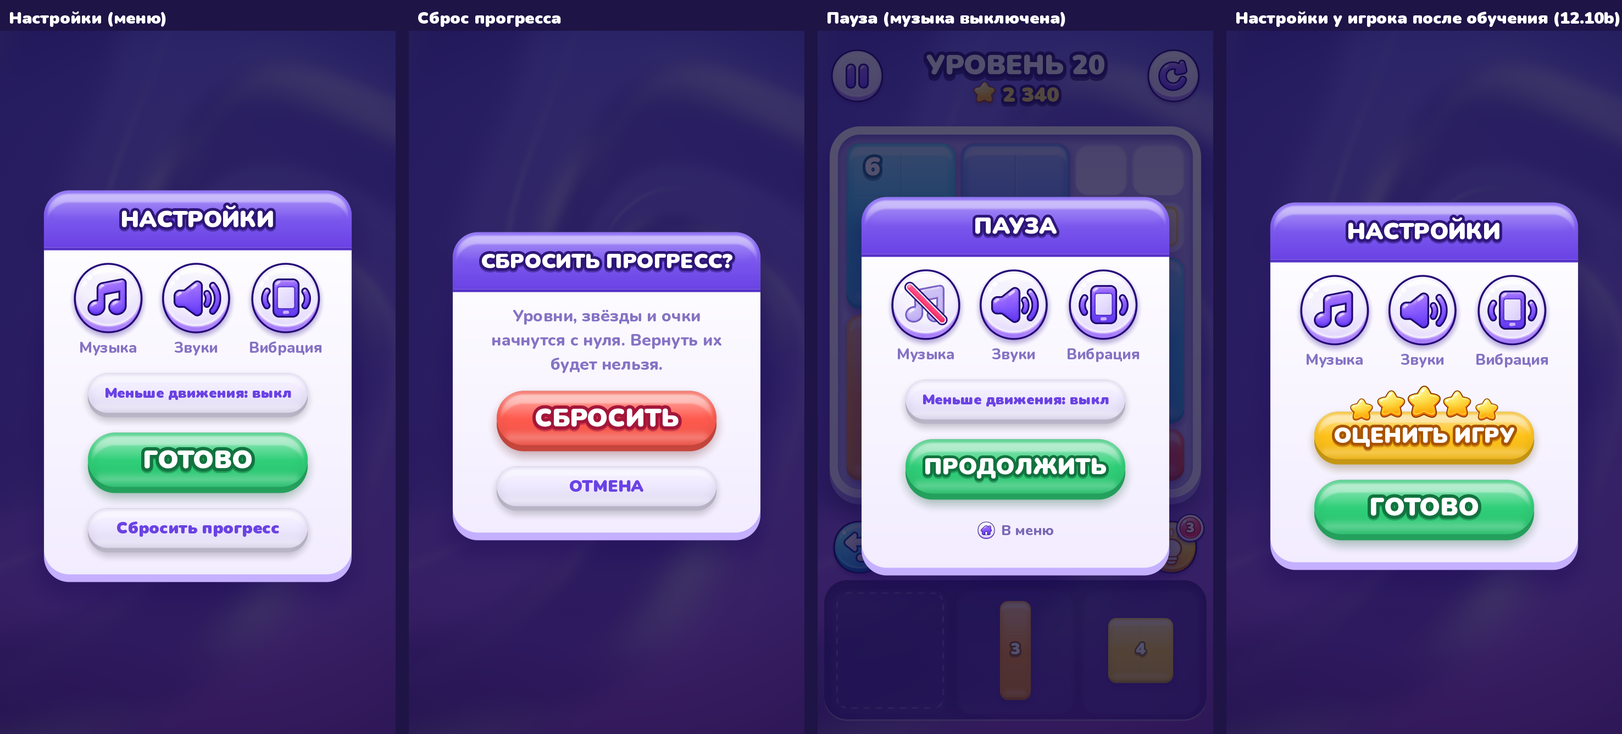
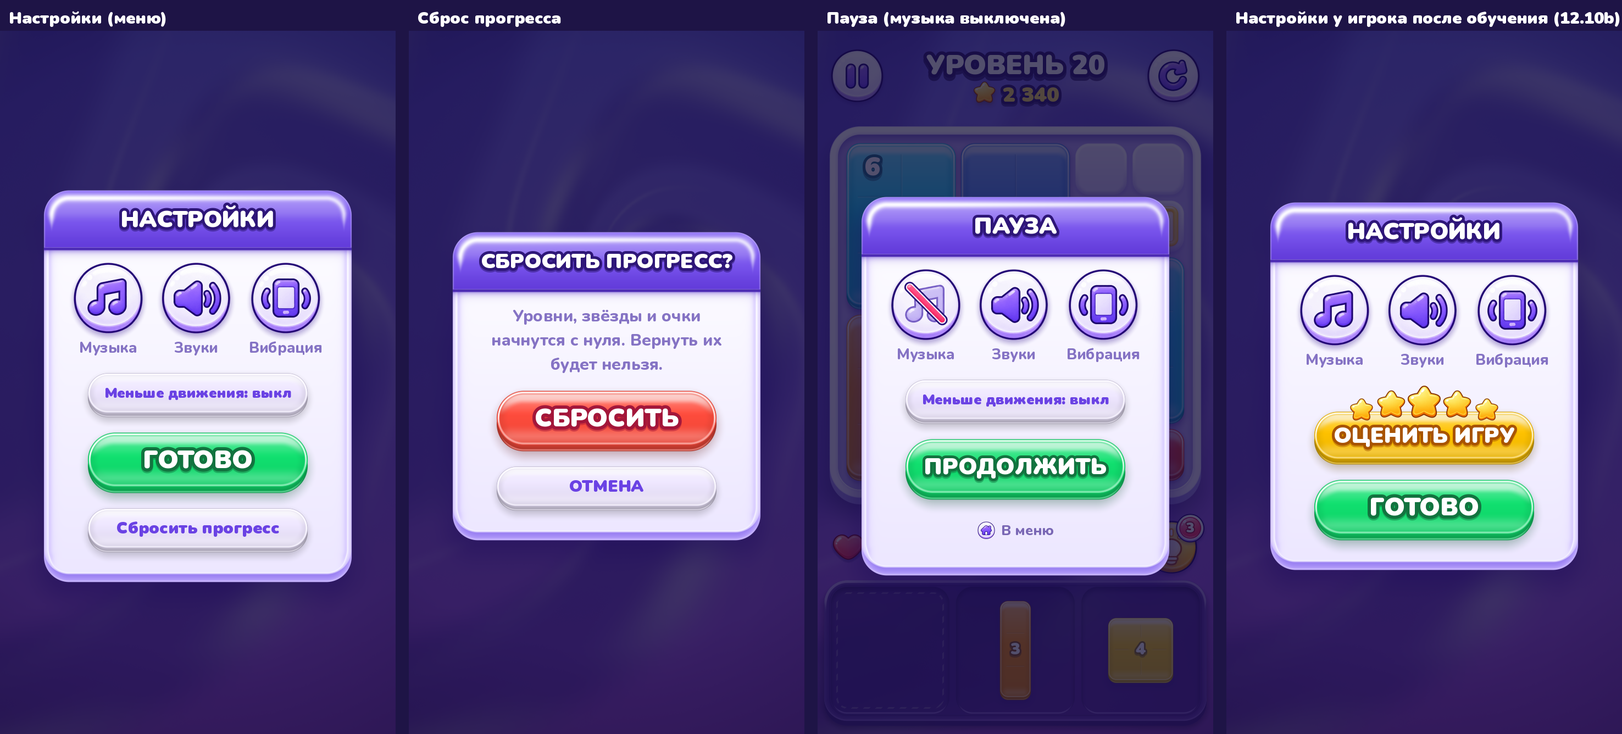
shaders

diff --git a/tools/shader_preview.py b/tools/shader_preview.py
@@ -536,7 +536,7 @@ SHADE_LIFTED = gd_value(gd_const("scripts/palette.gd", "SHADE_LIFTED"))
 B = {k: gd_value(gd_const("scenes/game/block.gd", k)) for k in
      ("CELL", "DEPTH", "MARGIN_REST", "MARGIN_LIFTED", "SHADOW_REST", "SHADOW_LIFTED", "BLUR_REST",
       "BLUR_LIFTED", "LIFT_SCALE", "DIGIT_OUTLINE")}
-BD = {k: gd_value(gd_const("scenes/game/board.gd", k)) for k in ("PAD", "RIM", "FRAME_DEPTH", "FRAME_MARGIN")}
+BD = {k: gd_value(gd_const("scenes/game/board.gd", k)) for k in ("PAD", "RIM", "FRAME_DEPTH", "FRAME_MARGIN", "GHOST_GLOW")}
 CL = {k: gd_value(gd_const("scenes/game/cell.gd", k)) for k in ("MAGNET_SCALE", "MAGNET_LIFT", "DIGIT_OUTLINE")}
 DIM_A = gd_value(gd_const("scenes/game/cell.gd", "DIM_COLOR"))[3]
 CELL = B["CELL"]
@@ -813,10 +813,12 @@ def render(bad=False):
                    darkened(color_for(area), 0.42), CL["DIGIT_OUTLINE"] * s * k,
                    darkened(color_for(area), 0.5)[:3] + (0.35,), (0, 2 * s * k), alpha)
 
-    # Board/Ghost — место несомого блока.
+    # Board/Ghost — место несомого блока; узел шире места на поля под свечение (Board.GHOST_GLOW, 20.8).
     gcol = GHOST_BAD if bad else color_for(drag_area)
-    draw_rect(cv, "ghost", ox + x * CELL_PX, oy + y * CELL_PX, bw * CELL, bh * CELL, s, gcol,
-              {"rect_size": (bw * CELL, bh * CELL), "px": px, "frame_alpha": 0.6 if bad else 1.0})
+    gm = BD["GHOST_GLOW"] * px
+    draw_rect(cv, "ghost", ox + x * CELL_PX - gm * s, oy + y * CELL_PX - gm * s, bw * CELL + 2 * gm,
+              bh * CELL + 2 * gm, s, gcol,
+              {"rect_size": (bw * CELL, bh * CELL), "margin": gm, "px": px, "bad": 1.0 if bad else 0.0})
 
     # Блоки на поле — по рядам (Board._sort_block).
     for i in sorted(PLACED, key=lambda j: (rects[j][1], rects[j][0])):

diff --git a/docs/log/journal_12_1127.md b/docs/log/journal_12_1127.md
@@ -1,0 +1,65 @@
+# Лог: 27.11 (этап 20.1e; 20.8 — ночь)
+
+Вынесено из корневого PROGRESS.md 27.11.2026 (вечер).
+
+## 27.11.2026 — 20.1e: Метрика сердец, PROMO, MODERATION, DESKTOP, README; новый Pod «шикаку»
+Беседа QSkU1F1wjB, три агента подряд. Агент 1 правил selftest, но в Pod не сохранил — правки пропали со сбросом
+Компьютера.
+- **Агент 2 (01:31):** новый Pod «шикаку» `vlt_DzP3sLWX0IWCX5` — проект из `main` GitHub
+  (`backups/github_main_2026-11-27.zip`), `save.py` — новый `POD_ID`. `Analytics`: цели `heart_lost` (каждое
+  сгоревшее сердце, сколько осталось), `hearts_out` (сердца кончились, «блоков на поле/всего»), `revive`
+  (`rewarded` / `free` / `closed` / `not_shown`); цели и параметра `undo` нет; в итогах попытки на уровне с сердцами —
+  `hearts` «осталось/всего» (`Game._analytics_extra`). `game.gd`: `_on_mistake`, `revive`, `_on_revive_ad`.
+  selftest: «Аналитика» (L12, L1 без `hearts`, задача дня, вне попытки цели сердец не шлются), `_hearts_out_run` —
+  цепочка `revive` `free → closed → not_shown → rewarded → free`, пять `hearts_out`, `hearts` в «Заново» и выходе.
+  README (цели, selftest), `check_shell.py`. PROMO и `promo_check` правил — не сохранил.
+- **Агент 3 (01:51):** PROMO заново: ошибки и сердца вместо отмены и тупика, звёзды «без ошибок и подсказок»,
+  в комментарии разработчика — сердца, реклама «Продолжить +1 сердце» (до 3 за попытку, без межстраничной после
+  продолжения), клавиши без Ctrl+Z / Backspace, с пробелом. `promo_check.py`: термины сердце / ошибка, правило звёзд
+  сверяется с `Hearts.stars` (`STAR_CODE`), клавиша пробел. MODERATION (клавиши, реклама за сердце, бесплатное
+  продолжение, урок сердец, цели Метрики), DESKTOP (клавиши), README (4 флага сердец в «Remote Config» — их там не
+  было). `.md` правились инструментом документов, не записью файла. Записи 11.11 → `docs/log/journal_10_1111.md`.
+  `check_gd`, `promo_check` — 0 проблем («Об игре» ru 998, en 998, tr 967 из 1000); `make_po` — 4 строки
+  `HeartsOutPanel` без перевода (как раньше). selftest не прогнан — у пользователя (20.7).
+- **Агент 3, второй заход (02:15) — правило пользователя «шейдер — сначала картинка»** (вверху файла) и пункт 20.8.
+
+## 27.11.2026 (ночь) — 20.8: блики блока по жалобе; новый Pod «шикаку» `vlt_6VgbxazGXR2L7J`
+Беседа QnHPmYp1Ci. Жалоба пользователя (скриншоты): блики блока — овалы, «налепленные поверх», не по форме; светлая
+полоса по низу губы резко обрывается с обоих концов.
+- **Агент 1:** новый Pod — проект из `main` GitHub (`backups/github_main_2026-11-27b.zip`), в `tools/save.py` id Pod
+  `vlt_6VgbxazGXR2L7J`. Референс бликов — генератор изображений (П2 в `docs/shader_refs/PROMPTS.md`), по нему
+  переделан `block.gdshader`; в Pod не сохранил — правки пропали со сбросом Компьютера (код остался в беседе).
+- **Агент 2 (03:45):** правки агента 1 восстановлены из беседы и сохранены. `block.gdshader`: функция `box_normal`
+  (нормаль контура скруглённого прямоугольника); искры-овалы (раздел 8) заменены тонкой линией блика внутри кромки
+  по всему верху — огибает верхние скругления, на боках сужается и гаснет, слева ярче; блик губы идёт по её контуру
+  и тает на нижних скруглениях (вес — нормаль вниз), тон губы — от её края; нижний край серпа мягче. `docs/shader_refs/`:
+  `block_highlights.jpg` (референс), `block_highlights_input.jpg` (вход генератора), `block_highlights_cmp.jpg`
+  (референс / до / после); PROMPTS — П2 (дословный промпт не сохранился, записана суть) и строка 1 таблицы.
+  `check_gd`, `layout_model` — 0 проблем; кадры `shader_preview` и `shader_ref_compare blocks` — без артефактов.
+  В Godot не прогнано (20.7).
+- **Агент 3 (03:54) — полка лотка `shelf.gdshader`** (строка 4 таблицы PROMPTS; гнёзда, строка 3, сделаны до ночи —
+  строку дописал). Референс — П3: `shelf_tray.jpg` (вход `shelf_tray_input.jpg`, сравнение `shelf_tray_cmp.jpg`).
+  Лицо плотнее и светлее, выпуклый ободок по кромке с тёмной бороздкой, линия блика по верху огибает скругления
+  и гаснет на боках; губа 9 px и тень под полкой — в полях `outer`: `Tray._draw` рисует прямоугольник шире корпуса
+  на `Tray.SHELF_OUTER` = 24 px (selftest сверяет `outer`); гнёзда — тень под верхним краем, светлая кромка по низу.
+  `box_normal` → `sdf.gdshaderinc` (общая для блока и полки); `shader_ref_compare.py shelf` — по новому референсу;
+  STYLE 10. Журнал не дописал, архив собрал раньше правки STYLE — дописал и пересобрал агент 4.
+- **Агенты 4–5 (04:10, 04:40) — фон `background.gdshader`** (строка 5 таблицы PROMPTS). Агент 4: референс П4 —
+  `docs/shader_refs/background_p4.jpg` (вход `background_p4_input.jpg`, промпт дословно), варианты шейдера рядом с
+  ним; в Pod не сохранил (код остался в беседе). Агент 5 внёс код заново и доделал: витки — складки атласа, 5 вместо
+  3, `wind` 2,0, `warp` 45 px; складка светлеет к гребню, по гребню — линия 1,3 px с ореолом, за ней тень, ложбины
+  темнее, но насыщенные (`groove`, `keep`); ширины — в px поперёк складки (период из градиента фазы). Сверх кода
+  агента 4: линии не тоньше пикселя картинки (`vpx` = `fwidth(pos.x)`: в `Bake` на половинном разрешении — мягче,
+  без «лесенки»), край тени за гребнем сглажен (скачок на стыке 3600 с — 2 из 255 вместо 9), `pow` от `max(s, 0)`.
+  Проверено в предпросмотре: средний цвет (127, 85, 221) — шторка `#7B53E0` без вспышки; 10 тем глав (средние
+  отличаются от прежних не больше чем на 9 из 255, ложбины не серые); альбом; TIME 0 / 30 с — витки ≈ 9 px/с, у 99 %
+  экрана до 17 (было 27); `quality_preview` — разница «среднего» / «низкого» с «высоким» 0,7 / 1,3 из 255; против
+  3× сглаженного кадра — не больше 6 из 255. `background_p4_cmp.jpg` (референс / до / после);
+  `shader_ref_compare.py background` — по П4; STYLE 9, PROMPTS (П4, строка 5); шапка шейдера и `background.gd`.
+  Лог 12.11 → `docs/log/journal_11_1112.md` (корень подбирался к 40 КБ). `check_gd`, `layout_model` — 0 проблем. В
+  Godot не прогнано (20.7): как выглядят тонкие линии в движении, особенно на «низком» (10 к/с).
+- **Агент 6 (04:35) — фон откачен.** Пользователь: «шейдер фона оставляем таким, каким он был, мне он нравится
+  больше». `background.gdshader`, `scenes/ui/background.gd`, `tools/shader_ref_compare.py` — из архива 00:59 (до
+  П4); кадры `G13_7_background.png`, `G14_7_quality.png` пересобраны прежним шейдером (средний цвет (129, 91, 220),
+  как в STYLE); STYLE 9 — версия до П4. PROMPTS: строка 5 — «не менять», П4 и `background_p4*.jpg` помечены
+  отклонёнными (оставлены, чтобы направление не повторяли). Вынос лога 12.11 в `docs/log/` оставлен.

diff --git a/PROGRESS.md b/PROGRESS.md
@@ -141,7 +141,10 @@
       (П6, строка 7) — сделано, в Godot не смотрели (20.7).
       27.11, вечер: лучи и свечение победы `win_rays.gdshader` (П7, строка 8) — сделано; свечение теперь по рамке
       поля (+70 px с каждой стороны, и в альбоме), `WinBackdrop.play` / `set_center` получают размер рамки; в Godot
-      не смотрели (20.7). Дальше — строка 9 таблицы в `docs/shader_refs/PROMPTS.md` (`ghost.gdshader`).
+      не смотрели (20.7).
+      27.11, вечер: призрак места `ghost.gdshader` (П8, строка 9) — сделано; узел `Board/Ghost` шире места на поля
+      под свечение (`Board.GHOST_GLOW`); в Godot не смотрели (20.7). Дальше — строка 10 таблицы в
+      `docs/shader_refs/PROMPTS.md` (`check.gdshader`).
 - [ ] 20.2 Причина тупика: подсветить число без единого места или общая подпись.
 - [ ] 20.3 Подсказка в две ступени: «посмотри сюда» бесплатно, затем блок (−1 звезда); флаг `hint_step1_free`.
 - [ ] 20.4 Музыка: 3–5 треков по 2–3 мин с вариациями, ротация по главам, пауза после ≈10 мин; вес — замером.
@@ -159,37 +162,10 @@
 Старые пункты обзора: 3 → этап 19; 5 → 16; 6 → 18; 7 → «Качество» (разделение game.gd сделано в этапе 10).
 
 ## Лог
-Записи текущего этапа, новые — внизу. Лог до 12.11 включительно — `docs/log/journal_*.md` (12.11 —
-`journal_11_1112.md`, вынесен 27.11, ночь).
+Записи текущего этапа, новые — внизу. Лог до 27.11 (ночь) включительно — `docs/log/journal_*.md` (27.11, 20.1e и
+ночь — `journal_12_1127.md`, вынесен 27.11, вечер).
 
-## 27.11.2026 — 20.1e: Метрика сердец, PROMO, MODERATION, DESKTOP, README; новый Pod «шикаку»
-Беседа QSkU1F1wjB, три агента подряд. Агент 1 правил selftest, но в Pod не сохранил — правки пропали со сбросом
-Компьютера.
-- **Агент 2 (01:31):** новый Pod «шикаку» `vlt_DzP3sLWX0IWCX5` — проект из `main` GitHub
-  (`backups/github_main_2026-11-27.zip`), `save.py` — новый `POD_ID`. `Analytics`: цели `heart_lost` (каждое
-  сгоревшее сердце, сколько осталось), `hearts_out` (сердца кончились, «блоков на поле/всего»), `revive`
-  (`rewarded` / `free` / `closed` / `not_shown`); цели и параметра `undo` нет; в итогах попытки на уровне с сердцами —
-  `hearts` «осталось/всего» (`Game._analytics_extra`). `game.gd`: `_on_mistake`, `revive`, `_on_revive_ad`.
-  selftest: «Аналитика» (L12, L1 без `hearts`, задача дня, вне попытки цели сердец не шлются), `_hearts_out_run` —
-  цепочка `revive` `free → closed → not_shown → rewarded → free`, пять `hearts_out`, `hearts` в «Заново» и выходе.
-  README (цели, selftest), `check_shell.py`. PROMO и `promo_check` правил — не сохранил.
-- **Агент 3 (01:51):** PROMO заново: ошибки и сердца вместо отмены и тупика, звёзды «без ошибок и подсказок»,
-  в комментарии разработчика — сердца, реклама «Продолжить +1 сердце» (до 3 за попытку, без межстраничной после
-  продолжения), клавиши без Ctrl+Z / Backspace, с пробелом. `promo_check.py`: термины сердце / ошибка, правило звёзд
-  сверяется с `Hearts.stars` (`STAR_CODE`), клавиша пробел. MODERATION (клавиши, реклама за сердце, бесплатное
-  продолжение, урок сердец, цели Метрики), DESKTOP (клавиши), README (4 флага сердец в «Remote Config» — их там не
-  было). `.md` правились инструментом документов, не записью файла. Записи 11.11 → `docs/log/journal_10_1111.md`.
-  `check_gd`, `promo_check` — 0 проблем («Об игре» ru 998, en 998, tr 967 из 1000); `make_po` — 4 строки
-  `HeartsOutPanel` без перевода (как раньше). selftest не прогнан — у пользователя (20.7).
-- **Агент 3, второй заход (02:15) — правило пользователя «шейдер — сначала картинка»** (вверху файла) и пункт 20.8.
-
-## 27.11.2026 (ночь) — 20.8: блики блока по жалобе; новый Pod «шикаку» `vlt_6VgbxazGXR2L7J`
-Беседа QnHPmYp1Ci. Жалоба пользователя (скриншоты): блики блока — овалы, «налепленные поверх», не по форме; светлая
-полоса по низу губы резко обрывается с обоих концов.
-- **Агент 1:** новый Pod — проект из `main` GitHub (`backups/github_main_2026-11-27b.zip`), в `tools/save.py` id Pod
-  `vlt_6VgbxazGXR2L7J`. Референс бликов — генератор изображений (П2 в `docs/shader_refs/PROMPTS.md`), по нему
-  переделан `block.gdshader`; в Pod не сохранил — правки пропали со сбросом Компьютера (код остался в беседе).
-- **Агент 2 (03:45):** правки агента 1 восстановлены из беседы и сохранены. `block.gdshader`: функция `box_normal`
+@@ВЫНОС@@ `block.gdshader`: функция `box_normal`
   (нормаль контура скруглённого прямоугольника); искры-овалы (раздел 8) заменены тонкой линией блика внутри кромки
   по всему верху — огибает верхние скругления, на боках сужается и гаснет, слева ярче; блик губы идёт по её контуру
   и тает на нижних скруглениях (вес — нормаль вниз), тон губы — от её края; нижний край серпа мягче. `docs/shader_refs/`:

diff --git a/docs/STYLE.md b/docs/STYLE.md
@@ -133,7 +133,7 @@
   3. карточки 46 px; кнопки круглые; таблетки (кнопка «Далее», плашки) — радиус = высота / 2.
 - **Концентричность.** Гнездо числа внутри ячейки: радиус = RC·C − отступ (не меньше 0,14 стороны гнезда, при
   стороне 0,7 C это 0,135 C). Утопленный лоток поля: радиус ячейки + (pad − rim) + GC·C. Бортик: радиус лотка + rim.
-- **Обводки:** у текста — доля размера шрифта (таблица в разделе 3). Белая рамка призрака — 5 px, белое кольцо
+- **Обводки:** у текста — доля размера шрифта (таблица в разделе 3). Белая рамка призрака — 4,4 px, белое кольцо
   магнита — 4,5 px, кант гнезда числа — 4 px. Контур иконок нарисован в PNG, игра его не добавляет.
 - **Кнопки:** Ø 96–100 px в портрете и альбоме, зона нажатия не меньше 96×96. В PNG 256×256 круг кнопки
   занимает 240 px, поэтому текстура на 6,7 % больше видимого круга (для Ø 96 это 102 px).
@@ -173,12 +173,13 @@
 | Ячейка | отступ GC, радиус RC; `#DDD3FD` → `#E9E2FF`; внутренняя тень вниз 3,5 px, размытие 3 px, `#7A5EE0` 50 % |
 | Гнездо числа | квадрат 0,7 C, радиус по концентричности; заливка `светлее(цвет, 0,78)` → `светлее(цвет, 0,6)`; внутренняя тень вниз 3 px, размытие 3 px, `темнее(цвет, 0,25)` 55 %; кант 4 px цветом площади; число — раздел 3 |
 | Магнит (числа той же площади, что у несомого блока) | гнездо ×1,08 и выше на 4 px; ореол цвета площади, размытие 11 px; белое кольцо от 2,5 до 7 px снаружи гнезда; ореол пульсирует (этап 14). Гнёзда других площадей на это время — 55 % (`Cell.DIM_COLOR`; на кадре A3B не приглушены, 40 % по срезу 13.1 не читались) |
-| Призрак места | форма блока, цвет площади 35 % + белая рамка 5 px внутри, радиус RC |
-| Призрак места, куда нельзя (в коде, на кадрах его нет) | `Palette.GHOST_BAD` `#FF4B3E` 35 %, рамка 60 %. Несомый блок не подкрашивается: цвет — это площадь (решение по срезу 13.1, 02.10: с прежним `DRAG_TINT_BAD` жёлтый 4 выглядел оранжевым 3). Срез — `docs/style_frames/G13_1_compare_bad.png` |
+| Призрак места | форма блока, радиус RC; светящийся прозрачный «слот» цвета площади (20.8, референс `docs/shader_refs/ghost.jpg`): заливка 60 %, к низу плотнее (×1,18); у верха (спад 10 px) и вдоль рамки цвет ярче (×1,2) и белее на 10 %; вдоль рамки изнутри заливка плотнее на 18 % (спад 6,5 px; на верхней стороне ×0,4); белая рамка 4,4 px, отступив 0,8 px от края; снаружи свечение цвета площади, осветлённого на 20 %, — Гаусс σ 9 px, 90 % у края. Клетки и гнездо числа под призраком видны. Раньше (до 27.11, вечер): цвет площади 35 % + белая рамка 5 px внутри, без свечения |
+| Призрак места, куда нельзя (в коде, на кадрах его нет) | `Palette.GHOST_BAD` `#FF4B3E`: заливка 46 %, внутреннее свечение 5 %, рамка 60 %, свечение снаружи `#FF7690` (раньше — 35 %, рамка 60 %, без свечения). Несомый блок не подкрашивается: цвет — это площадь (решение по срезу 13.1, 02.10: с прежним `DRAG_TINT_BAD` жёлтый 4 выглядел оранжевым 3). Срез — `docs/style_frames/G13_1_compare_bad.png` |
 
 В Godot: рамка, лоток и ячейки — `shaders/board.gdshader` на узле `Board/Frame` (ячейки вырастают волной,
 униформа `appear`); гнездо и магнит — `shaders/nest.gdshader` на `Cell/Badge/Nest` (униформа `ring`, масштаб и
-подъём гнезда — `Cell.MAGNET_*`); призрак — `shaders/ghost.gdshader` на `Board/Ghost`. Размеры — в единицах
+подъём гнезда — `Cell.MAGNET_*`); призрак — `shaders/ghost.gdshader` на `Board/Ghost` (узел шире места на `Board.GHOST_GLOW` = 28 px с каждой
+стороны — поля под свечение). Размеры — в единицах
 поля (клетка 100), px рамок и теней переводит униформа `px` = 1 / масштаб поля на экране.
 
 ## 7. Тени
